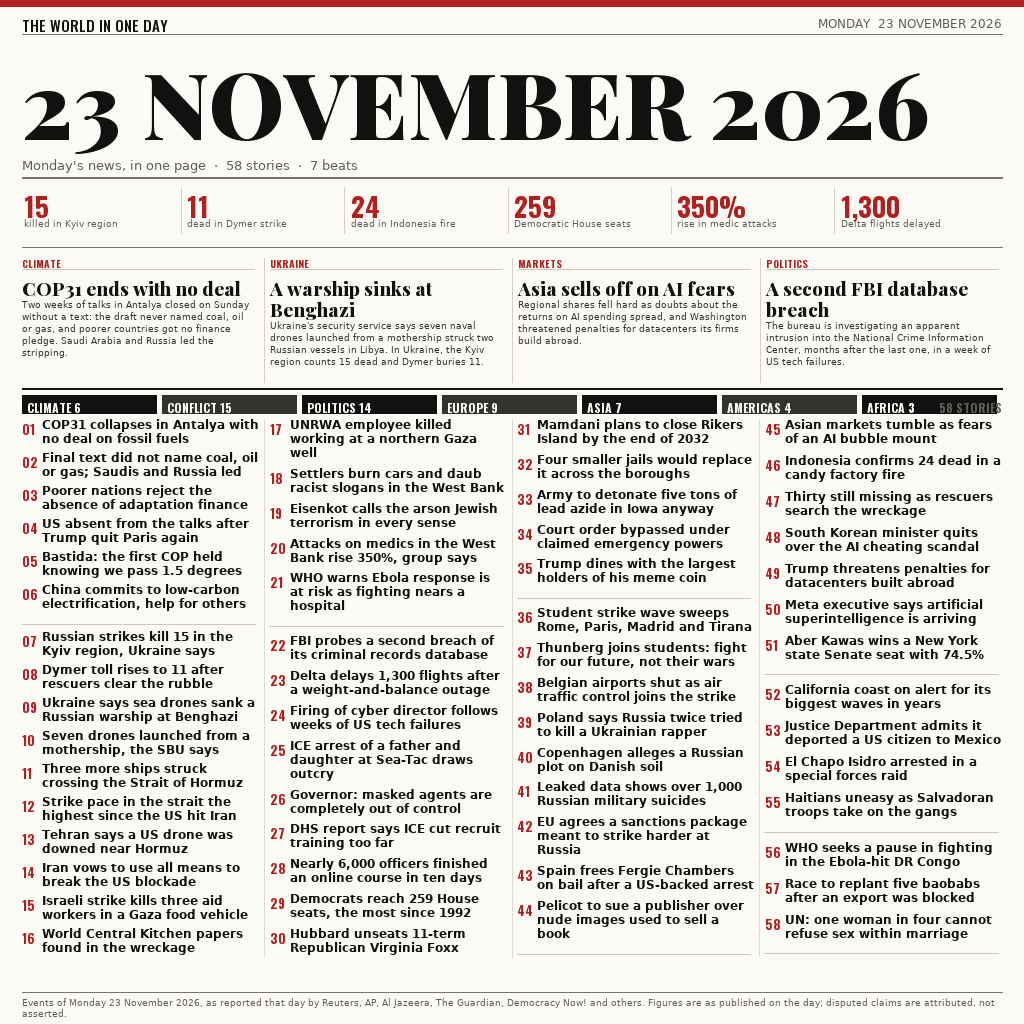
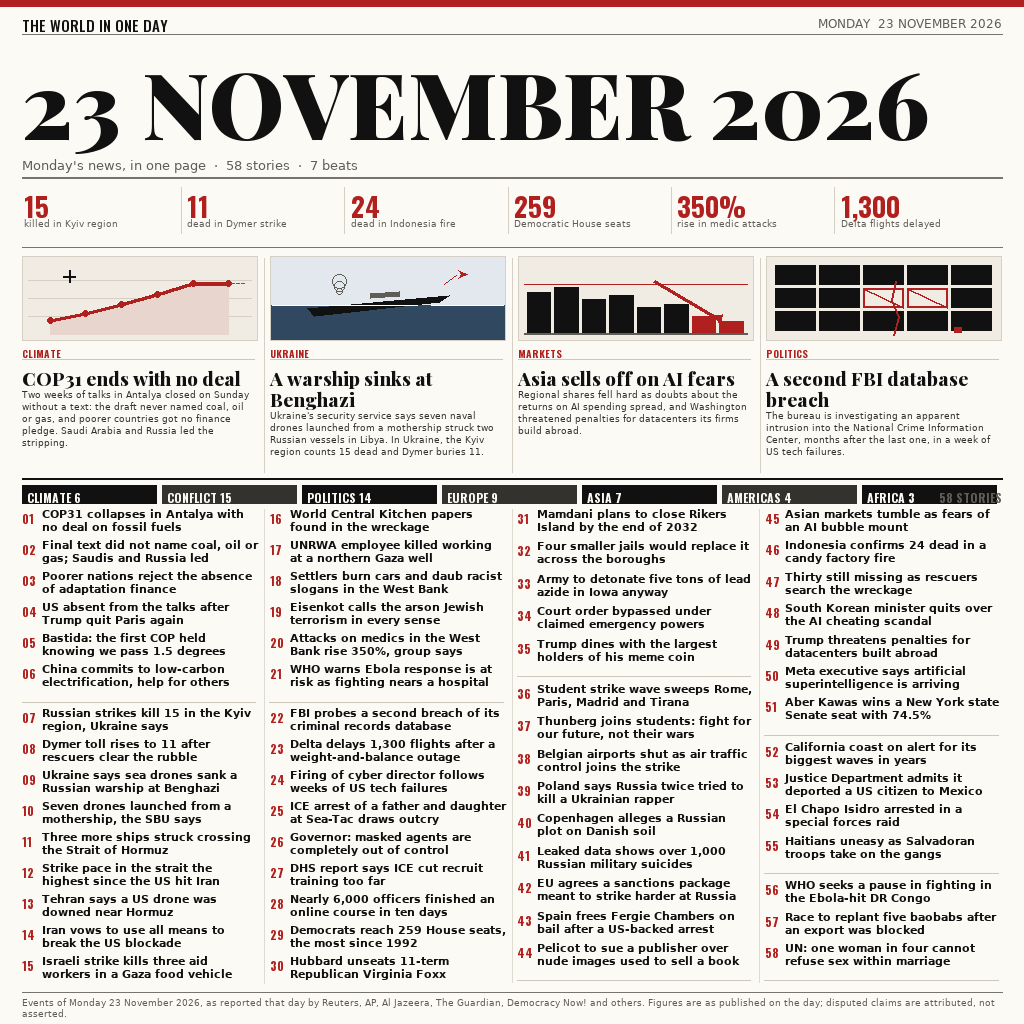
Give each lead a drawn plate, and hold the grid at eleven point

Changed region(s): [[0.0, 0.25, 1.0, 0.9688]]

diff --git a/tools/plates.py b/tools/plates.py
@@ -1,0 +1,195 @@
+#!/usr/bin/env python3
+"""Four small plates for the four leads, drawn from primitives.
+
+Each plate is a flat, high-contrast vignette of its story, sized to sit above
+the kicker in a lead column. They are drawn rather than photographed: no
+gradients, no halftones, no tiny type that would smear at thumbnail size. The
+shapes carry the meaning, so a viewer who reads nothing still sees a stalled
+climate chart, a blockaded strait, a sinking ship and an aid pipeline cut.
+
+Build time only; main.py ships the bytes this produces.
+"""
+
+PAPER = (252, 250, 245)
+INK = (17, 17, 17)
+RED = (176, 32, 30)
+GREY = (96, 92, 86)
+HAIR = (214, 208, 196)
+SEA = (48, 72, 96)
+SAND = (198, 176, 132)
+WHITE = (255, 255, 255)
+
+
+def _frame(d, box, fill=(240, 236, 227)):
+    x, y, w, h = box
+    d.rectangle([x, y, x + w - 1, y + h - 1], fill=fill, outline=HAIR, width=1)
+
+
+def climate(d, box):
+    """A rising line that stops dead: the talks, and the curve that outran them."""
+    x, y, w, h = box
+    _frame(d, box)
+    # baseline grid, three hairlines, so the plate reads as a chart even small
+    for i in range(1, 4):
+        gy = y + 6 + (h - 12) * i / 4
+        d.line([x + 6, gy, x + w - 7, gy], fill=HAIR, width=1)
+    # the temperature curve: six points climbing, then a flat final step
+    pts = [(0.10, 0.80), (0.26, 0.70), (0.42, 0.58), (0.58, 0.44),
+           (0.74, 0.30), (0.90, 0.30)]
+    poly = [(x + 6 + (w - 13) * px, y + 6 + (h - 12) * py) for px, py in pts]
+    # filled area under the curve, so the plate carries ink at thumbnail size
+    under = poly + [(poly[-1][0], y + h - 7), (poly[0][0], y + h - 7)]
+    d.polygon(under, fill=(232, 214, 206))
+    d.line(poly, fill=RED, width=max(2, h // 18), joint="curve")
+    for px_, py_ in poly:
+        r = max(2, h // 22)
+        d.ellipse([px_ - r, py_ - r, px_ + r, py_ + r], fill=RED)
+    # the last segment is a dashed "and then no agreement" tail
+    lx, ly = poly[-1]
+    for i in range(3):
+        sx = lx + 3 + i * 5
+        if sx + 3 < x + w - 5:
+            d.line([sx, ly, sx + 3, ly], fill=GREY, width=1)
+    # a struck-through target marker at the top left of the curve's rise
+    tx, ty = x + w * 0.20, y + h * 0.24
+    d.line([tx - 6, ty, tx + 6, ty], fill=INK, width=2)
+    d.line([tx, ty - 6, tx, ty + 6], fill=INK, width=2)
+
+
+def hormuz(d, box):
+    """A strait pinched shut: two headlands, a hull held between them."""
+    x, y, w, h = box
+    _frame(d, box, fill=(226, 232, 238))
+    # sea
+    d.rectangle([x + 1, y + h * 0.52, x + w - 2, y + h - 2], fill=SEA)
+    # two headlands, narrowing to a gap in the middle
+    d.polygon([(x + 1, y + 1), (x + w * 0.34, y + 1),
+               (x + w * 0.40, y + h * 0.52), (x + 1, y + h * 0.52)], fill=SAND)
+    d.polygon([(x + w - 2, y + 1), (x + w * 0.66, y + 1),
+               (x + w * 0.60, y + h * 0.52), (x + w - 2, y + h * 0.52)], fill=SAND)
+    # a hull in the gap, low and wide
+    cx, cy = x + w * 0.50, y + h * 0.66
+    hw, hh = w * 0.14, h * 0.09
+    d.polygon([(cx - hw, cy - hh), (cx + hw, cy - hh),
+               (cx + hw * 0.7, cy + hh), (cx - hw * 0.7, cy + hh)], fill=INK)
+    d.rectangle([cx - hw * 0.45, cy - hh * 2.2, cx + hw * 0.1, cy - hh], fill=GREY)
+    # the blockade: a chain of dashes across the gap, above the waterline
+    by = y + h * 0.50
+    for i in range(7):
+        sx = x + w * 0.36 + i * (w * 0.28 / 7)
+        d.line([sx, by - 3, sx + 3, by + 3], fill=RED, width=2)
+    # movement refused: one hull waits on each side of the chain
+    for mx in (x + w * 0.26, x + w * 0.74):
+        d.polygon([(mx - 5, by + 6), (mx + 5, by + 6),
+                   (mx + 3, by + 11), (mx - 3, by + 11)], fill=WHITE)
+
+
+def sinking(d, box):
+    """A corvette going down by the stern, with the drone that found it."""
+    x, y, w, h = box
+    _frame(d, box, fill=(226, 232, 238))
+    d.rectangle([x + 1, y + h * 0.58, x + w - 2, y + h - 2], fill=SEA)
+    # the hull, tilted, stern already under the surface
+    cx, cy = x + w * 0.46, y + h * 0.56
+    L, T = w * 0.30, h * 0.10
+    d.polygon([(cx - L, cy + T * 0.6), (cx + L, cy - T * 0.9),
+               (cx + L * 0.86, cy - T * 0.1), (cx - L * 0.90, cy + T * 1.5)], fill=INK)
+    # superstructure, small against the hull
+    d.polygon([(cx - L * 0.12, cy - T * 0.55), (cx + L * 0.30, cy - T * 0.85),
+               (cx + L * 0.30, cy - T * 1.45), (cx - L * 0.12, cy - T * 1.15)], fill=GREY)
+    # smoke where it was hit
+    for i, r in enumerate((3, 5, 7)):
+        d.ellipse([cx - L * 0.55 - r, cy - T * 1.4 - i * 5 - r,
+                   cx - L * 0.55 + r, cy - T * 1.4 - i * 5 + r], outline=GREY, width=1)
+    # surface line broken over the sinking stern
+    d.line([x + 2, y + h * 0.58, cx + L * 0.55, y + h * 0.58], fill=WHITE, width=1)
+    d.line([cx + L * 0.75, y + h * 0.58, x + w - 3, y + h * 0.58], fill=WHITE, width=1)
+    # the drone: a small delta above and to the right, with its track
+    dx, dy = x + w * 0.80, y + h * 0.22
+    d.polygon([(dx, dy - 4), (dx + 9, dy), (dx, dy + 4), (dx + 3, dy)], fill=RED)
+    d.line([dx - 14, dy + 10, dx - 2, dy + 1], fill=RED, width=1)
+
+
+def aid(d, box):
+    """An aid pipeline cut: grain moving along a path that stops at a chokepoint."""
+    x, y, w, h = box
+    _frame(d, box, fill=(240, 236, 227))
+    # the route, a shallow arc from left to right, drawn heavy so it reads as
+    # the subject of the plate rather than a hairline in the furniture
+    y0 = y + h * 0.66
+    pts = []
+    for i in range(33):
+        t = i / 32.0
+        pts.append((x + 10 + (w - 20) * t, y0 - (h * 0.34) * (1 - (2 * t - 1) ** 2)))
+    d.line(pts, fill=(222, 206, 186), width=max(7, h // 7))
+    d.line(pts, fill=INK, width=max(3, h // 16))
+    # three chokepoints, the middle one closed
+    for i, t in enumerate((0.18, 0.50, 0.82)):
+        px = x + 10 + (w - 20) * t
+        py = y0 - (h * 0.34) * (1 - (2 * t - 1) ** 2)
+        r = max(5, h // 11)
+        if i == 1:
+            d.ellipse([px - r - 3, py - r - 3, px + r + 3, py + r + 3], fill=RED)
+            d.line([px - r, py - r, px + r, py + r], fill=WHITE, width=3)
+            d.line([px - r, py + r, px + r, py - r], fill=WHITE, width=3)
+        else:
+            d.ellipse([px - r, py - r, px + r, py + r], fill=WHITE, outline=INK, width=2)
+    # grain: a small block of sheaves at the left end of the route
+    for i in range(4):
+        gx = x + 14 + i * 9
+        d.line([gx, y + h * 0.12, gx, y + h * 0.30], fill=INK, width=2)
+        d.line([gx - 4, y + h * 0.16, gx, y + h * 0.12], fill=INK, width=2)
+        d.line([gx + 4, y + h * 0.16, gx, y + h * 0.12], fill=INK, width=2)
+    d.line([x + 10, y + h - 9, x + w - 11, y + h - 9], fill=HAIR, width=1)
+
+
+def selloff(d, box):
+    """A market falling through its floor: bars dropping, one broken axis."""
+    x, y, w, h = box
+    _frame(d, box, fill=(240, 236, 227))
+    base = y + h - 8
+    # eight bars, each shorter than the last, so the shape reads as a decline
+    bw = (w - 16) / 8
+    heights = (0.62, 0.70, 0.52, 0.58, 0.40, 0.44, 0.26, 0.18)
+    for i, hf in enumerate(heights):
+        bx = x + 8 + i * bw
+        bh = (h - 20) * hf
+        d.rectangle([bx + 1, base - bh, bx + bw - 3, base], fill=INK if i < 6 else RED)
+    # the axis the bars sit on, and a red reference line they break
+    d.line([x + 6, base, x + w - 7, base], fill=GREY, width=2)
+    ry = y + h * 0.34
+    d.line([x + 6, ry, x + w - 7, ry], fill=RED, width=1)
+    # the arrow of the fall, through the last bars
+    d.line([x + w * 0.58, y + h * 0.30, x + w * 0.86, y + h * 0.76], fill=RED, width=3)
+    ax, ay = x + w * 0.86, y + h * 0.76
+    d.polygon([(ax, ay + 4), (ax - 7, ay - 5), (ax + 2, ay - 6)], fill=RED)
+
+
+def breach(d, box):
+    """A database door forced: a rack of records, one cell smashed open."""
+    x, y, w, h = box
+    _frame(d, box, fill=(240, 236, 227))
+    # a rack: three rows of record cells
+    rows, cells = 3, 5
+    cw = (w - 16) / cells
+    ch = (h - 16) / rows
+    for r in range(rows):
+        for c in range(cells):
+            cx = x + 8 + c * cw
+            cy = y + 8 + r * ch
+            broken = (r == 1 and c in (2, 3))
+            if broken:
+                # the forced cells: outline only, jagged, in red
+                d.rectangle([cx + 1, cy + 1, cx + cw - 3, cy + ch - 3],
+                            outline=RED, width=2)
+                d.line([cx + 1, cy + 1, cx + cw - 3, cy + ch - 3], fill=RED, width=2)
+            else:
+                d.rectangle([cx + 1, cy + 1, cx + cw - 3, cy + ch - 3],
+                            fill=INK)
+    # the crack running down from the forced cells
+    mx = x + w * 0.55
+    d.line([mx, y + h * 0.30, mx - 4, y + h * 0.52, mx + 3, y + h * 0.72,
+            mx - 2, y + h - 6], fill=RED, width=2)
+    # a falling record: a small cell escaping bottom right
+    ex, ey = x + w * 0.80, y + h * 0.84
+    d.rectangle([ex, ey, ex + 7, ey + 5], fill=RED)

diff --git a/tools/front.py b/tools/front.py
@@ -19,6 +19,11 @@ from pathlib import Path
 
 from PIL import Image, ImageDraw, ImageFont
 
+try:                                  # imported as tools.front
+    from . import plates
+except ImportError:                   # run as a script from the repo root
+    import plates
+
 W = H = 1024
 M = 22                      # outer margin
 INK = (17, 17, 17)
@@ -103,6 +108,7 @@ STORIES = [
 LEADS = [
     {
         "kick": "CLIMATE",
+        "plate": "climate",
         "head": "COP31 ends with no deal",
         "body": "Two weeks of talks in Antalya closed on Sunday without a text: the "
                 "draft never named coal, oil or gas, and poorer countries got no "
@@ -110,6 +116,7 @@ LEADS = [
     },
     {
         "kick": "UKRAINE",
+        "plate": "sinking",
         "head": "A warship sinks at Benghazi",
         "body": "Ukraine's security service says seven naval drones launched from a "
                 "mothership struck two Russian vessels in Libya. In Ukraine, the "
@@ -117,6 +124,7 @@ LEADS = [
     },
     {
         "kick": "MARKETS",
+        "plate": "selloff",
         "head": "Asia sells off on AI fears",
         "body": "Regional shares fell hard as doubts about the returns on AI spending "
                 "spread, and Washington threatened penalties for datacenters its "
@@ -124,6 +132,7 @@ LEADS = [
     },
     {
         "kick": "POLITICS",
+        "plate": "breach",
         "head": "A second FBI database breach",
         "body": "The bureau is investigating an apparent intrusion into the National "
                 "Crime Information Center, months after the last one, in a week of "
@@ -221,23 +230,29 @@ def render(out_path):
     d.line([M, y, W - M, y], fill=RULE, width=1)
     y += 9
 
-    # four typographic leads across the measure, divided by hairlines
+    # four typographic leads across the measure, divided by hairlines, each
+    # with a small drawn plate above its kicker: the vignette is what carries
+    # the lead at contact-sheet size, where the body type cannot be read
     gap = 12
     lw = (inner - 3 * gap) / 4
-    lh = 132
+    plate_h = max(30, int(round(lw * 0.36)))
+    plate_off = plate_h + 5
+    lh = 132 + plate_off
     for i, lead in enumerate(LEADS):
         lx = M + i * (lw + gap)
+        getattr(plates, lead["plate"])(d, (lx, y, int(lw), plate_h))
         f_k = font("Oswald-Bold.ttf", 10)
-        d.text((lx, y), lead["kick"], font=f_k, fill=RED)
-        d.line([lx, y + 13, lx + lw - 4, y + 13], fill=(206, 200, 188), width=1)
+        d.text((lx, y + plate_off), lead["kick"], font=f_k, fill=RED)
+        d.line([lx, y + plate_off + 13, lx + lw - 4, y + plate_off + 13],
+               fill=(206, 200, 188), width=1)
         f_h = font("PlayfairDisplay-Bold.ttf", 19)
         hl = wrap(d, lead["head"], f_h, lw - 4)
-        ty = y + 19
+        ty = y + plate_off + 19
         for ln in hl[:3]:
             d.text((lx, ty), ln, font=f_h, fill=INK)
             ty += 21
         f_b = font("DejaVuSans.ttf", 9)
-        for j, ln in enumerate(wrap(d, lead["body"], f_b, lw - 4)[:7]):
+        for j, ln in enumerate(wrap(d, lead["body"], f_b, lw - 4)[:6]):
             d.text((lx, ty + 3 + j * 12), ln, font=f_b, fill=(52, 50, 46))
         if i:
             d.line([lx - gap // 2, y + 2, lx - gap // 2, y + lh - 6],
